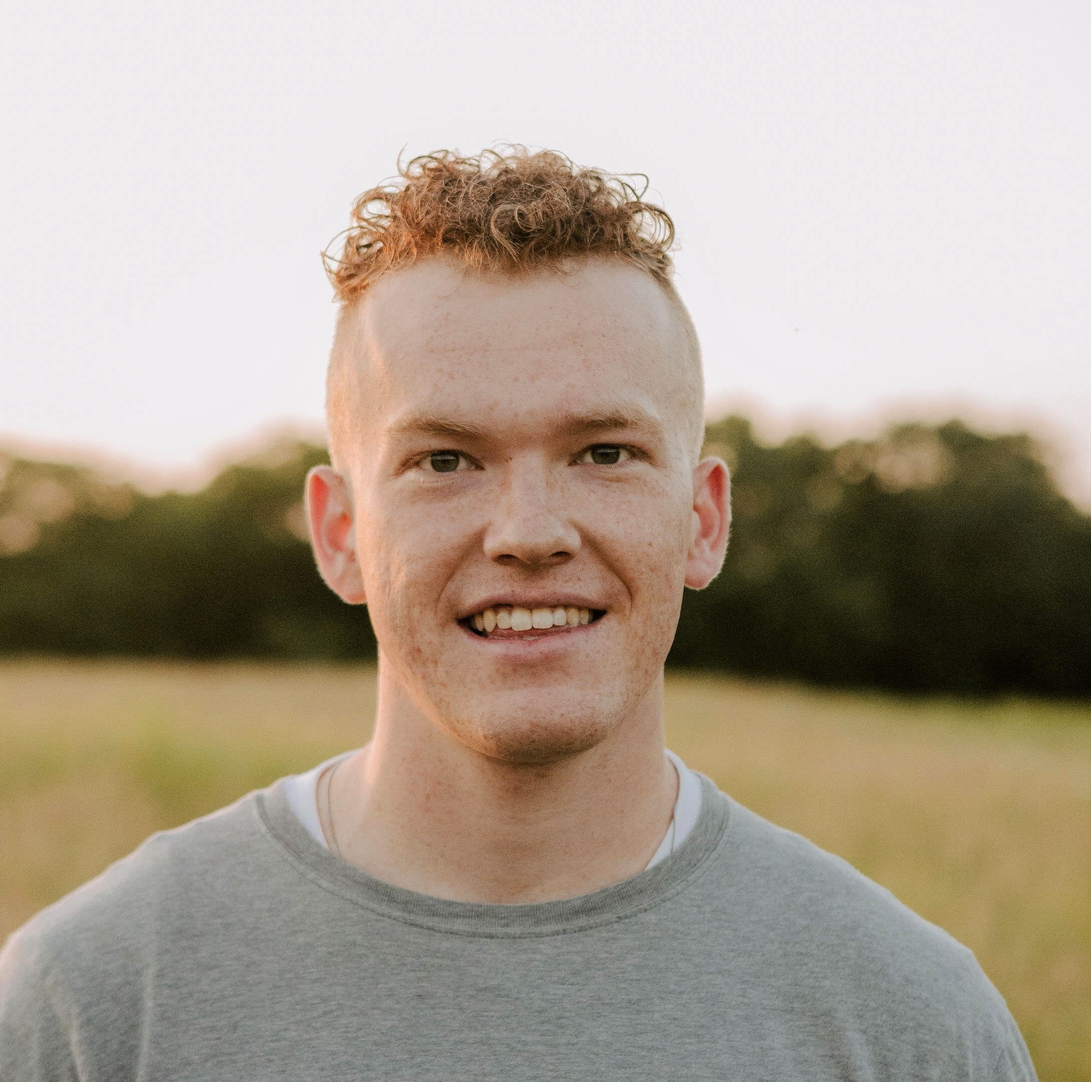
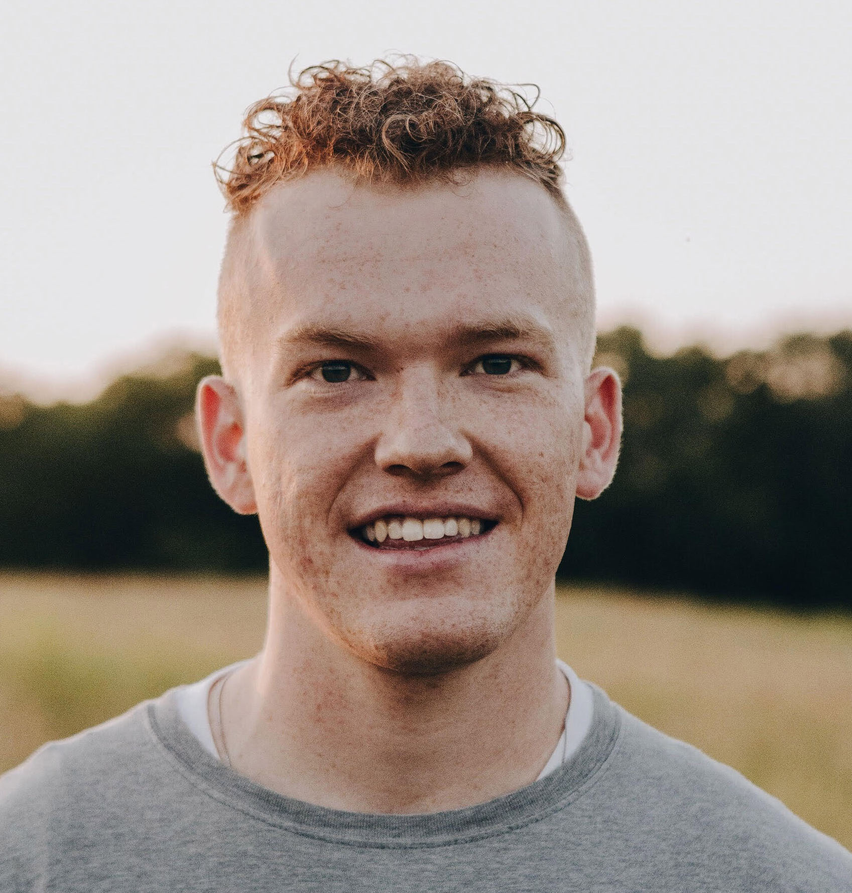
small aesthetic tweaks

diff --git a/index.html b/index.html
@@ -327,8 +327,8 @@ $(document).ready(function () {
 
 
 <p><link rel="stylesheet" href="styles.css" type="text/css"></p>
-<p><img src="images/simon.jpg" style="width:25%; border:3px solid; margin-right: 20px" align="left"></p>
-<p>I’m a rising Junior statistics student at Reed College. I care about the use of data science for social good, and am especially interested in applications in sustainable agriculture. My current research focuses on privacy-preserving data analysis as well as applying statistical methods to quantify progress in equity of bikeshare programs. I also maintain some R software packages and work as a consultant to researchers at Reed to effectively utilize R and other data tools in their projects, and am currently working for John Deere as a Data Science Intern. Source code for many of my projects (including this website) is available on GitHub <span class="citation">@simonpcouch</span>!</p>
+<p><img src="images/simon.jpg" style="width:30%; border:3px solid; margin-right: 20px" align="left"></p>
+<p>I’m a statistics student heading into my third year at Reed College. I care about the use of data science for social good, and am especially interested in applications in sustainable agriculture. My current research focuses on privacy-preserving data analysis as well as applying statistical methods to quantify progress in equity of bikeshare programs. I also maintain some R software packages and work as a consultant to researchers at Reed to effectively utilize R and other data tools in their projects, and am currently working for John Deere as a Data Science Intern. Source code for many of my projects (including this website) is available on GitHub <span class="citation">@simonpcouch</span>!</p>
 
 
 
